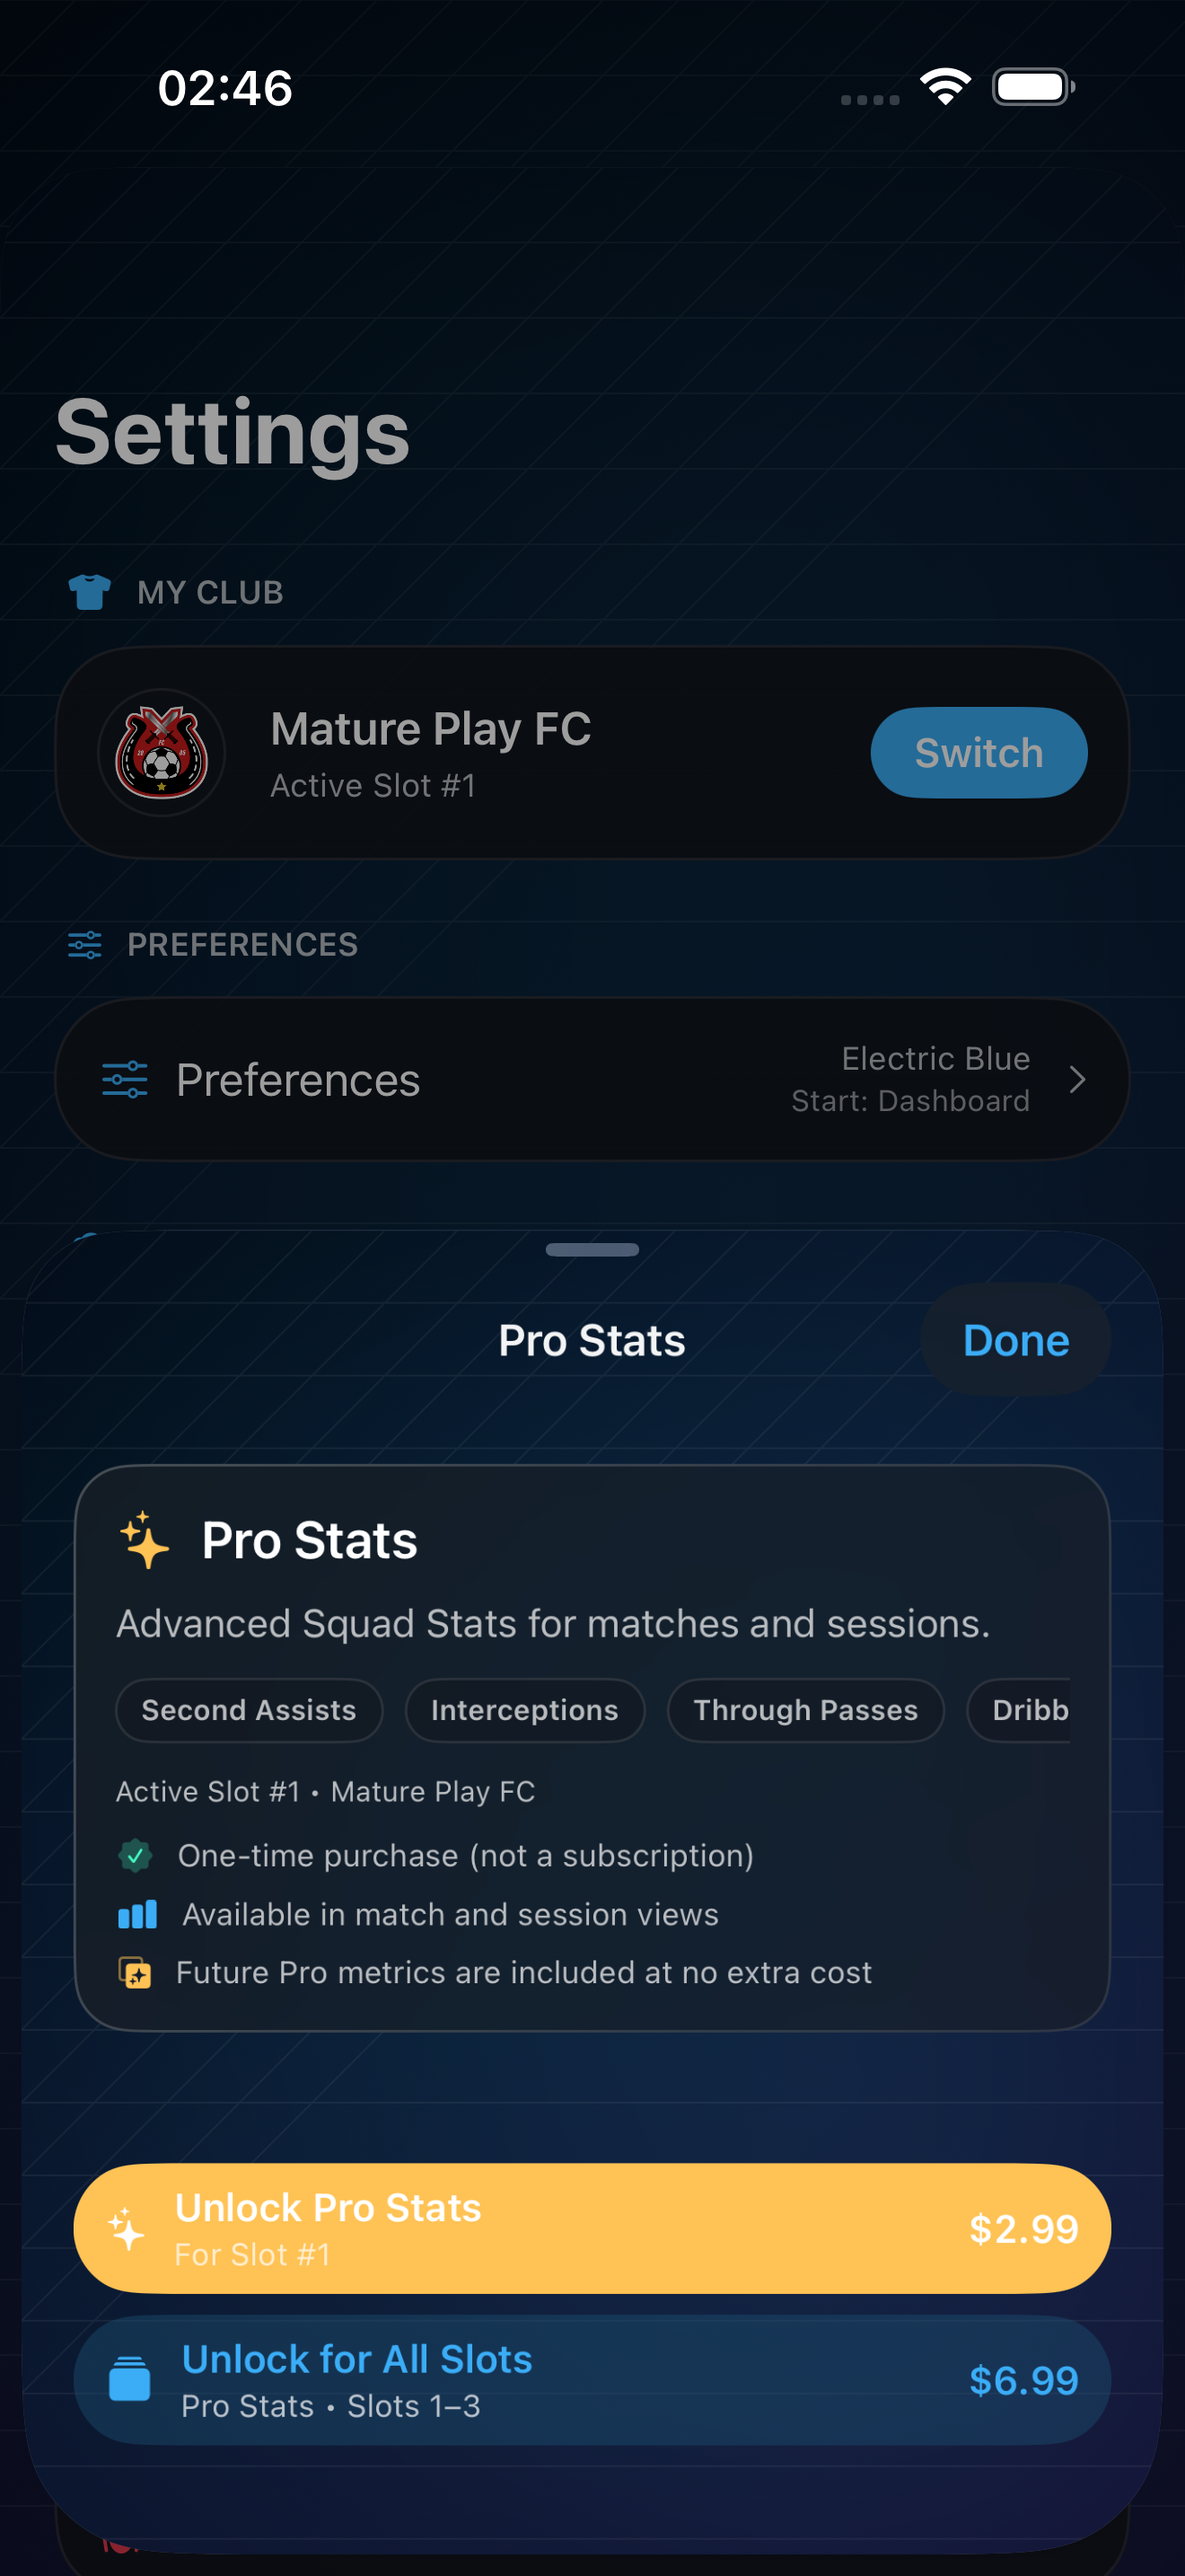
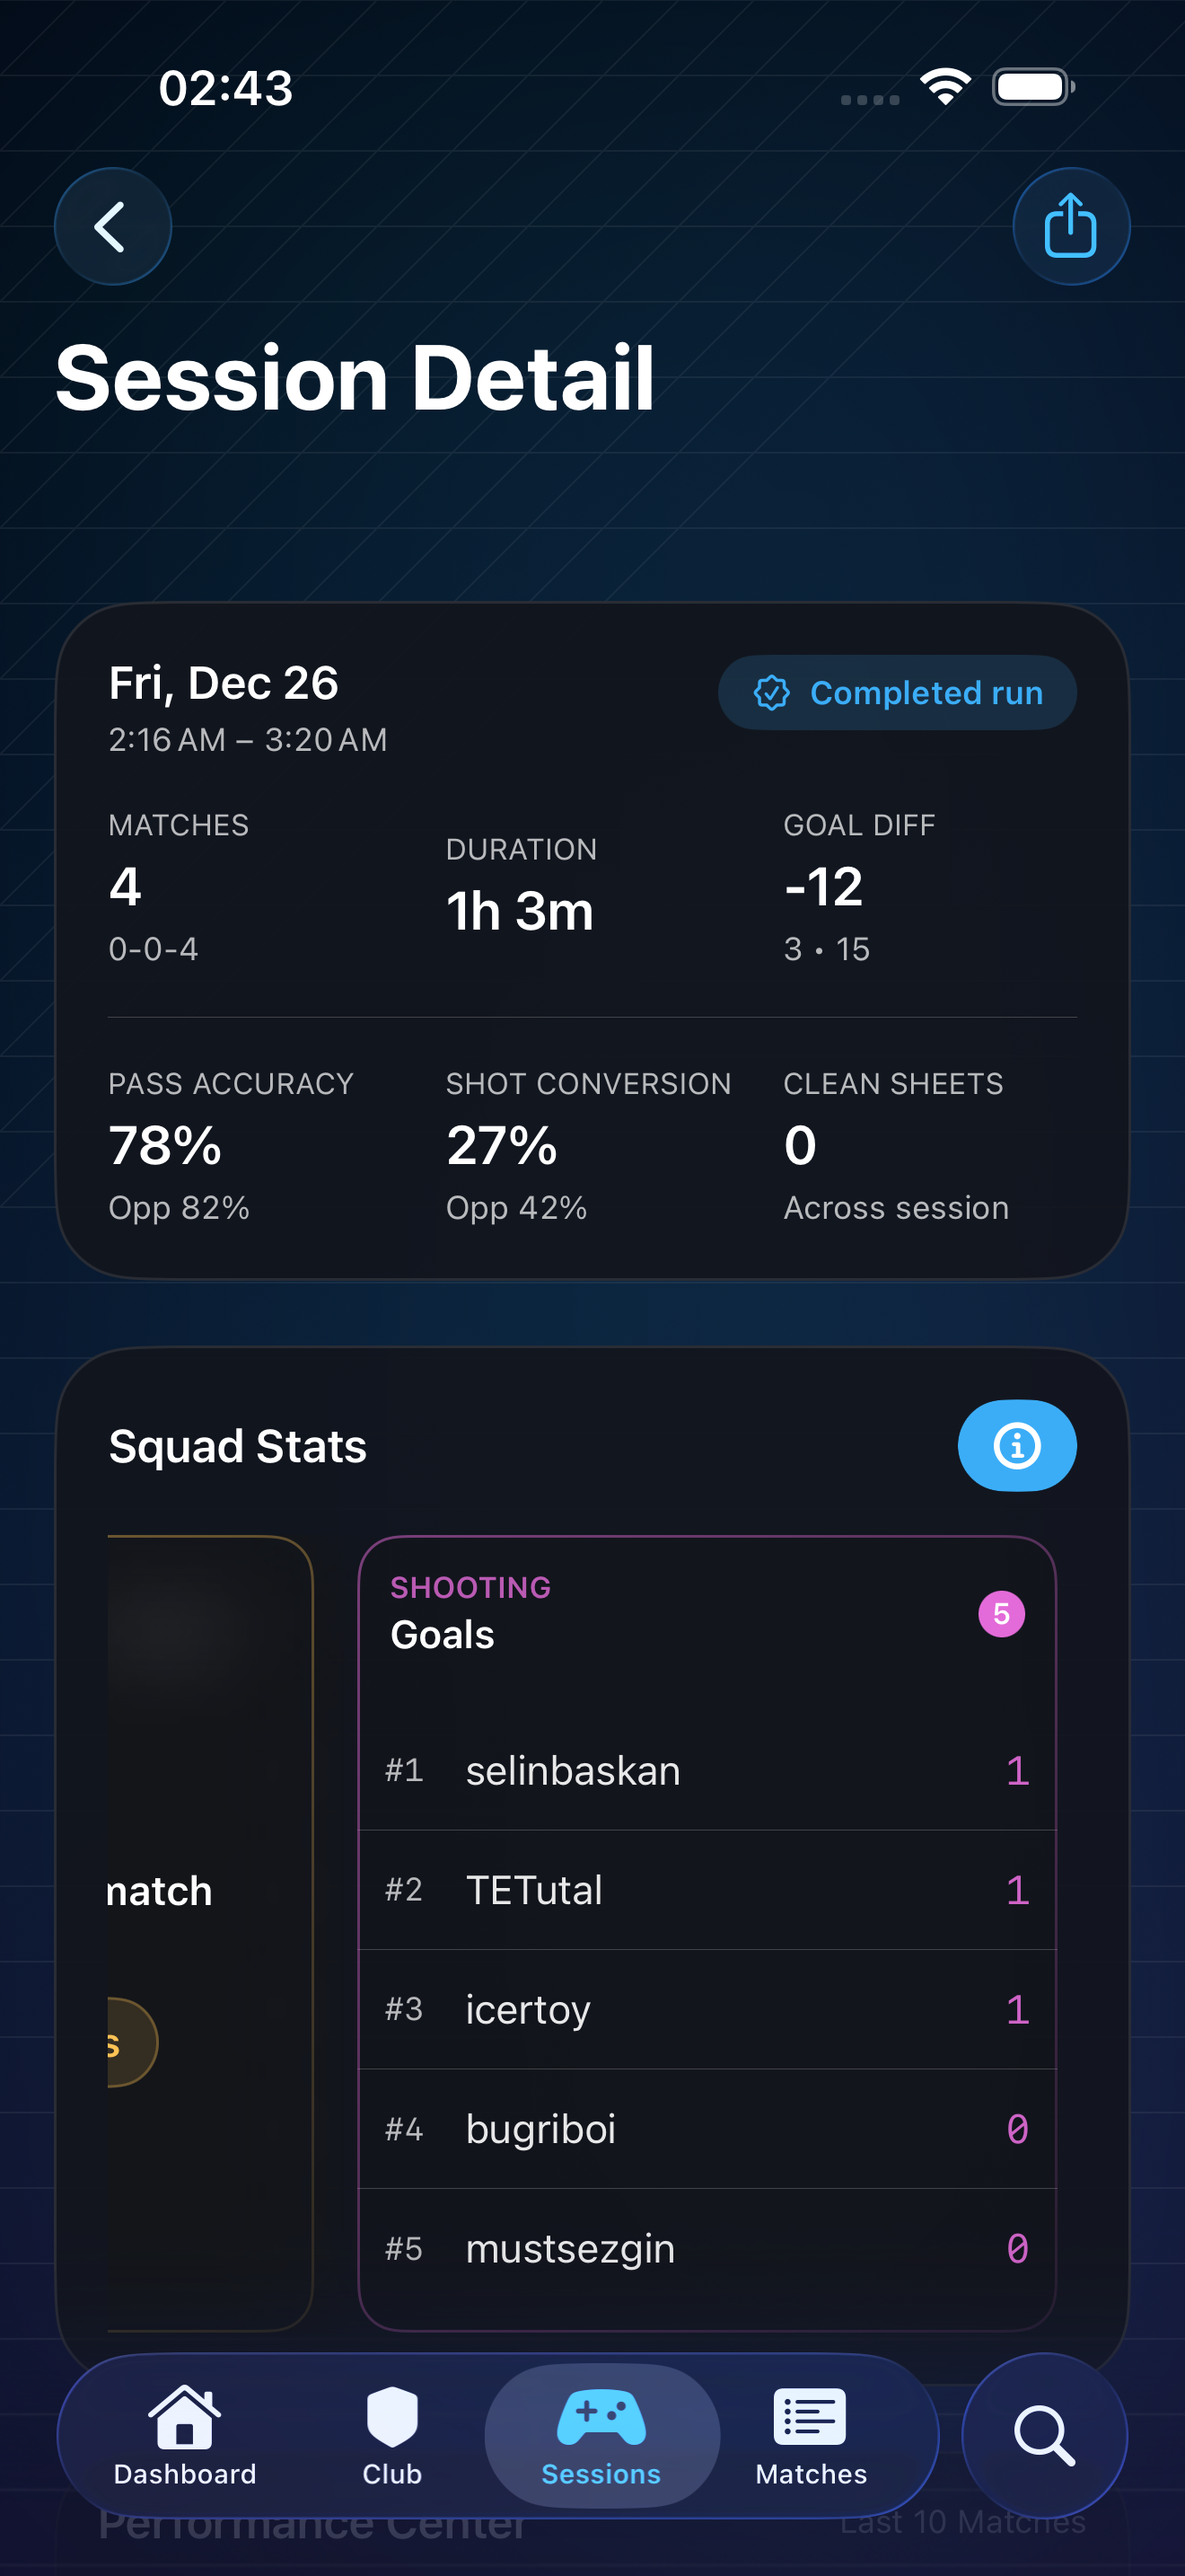
Use real App Store review quotes

diff --git a/index.html b/index.html
@@ -89,20 +89,20 @@
           <h2 class="section-title">Loved by Clubs</h2>
           <div class="testimonials-grid">
             <figure class="testimonial-card">
-              <blockquote>“A must-have for anyone playing Clubs mode.”</blockquote>
-              <figcaption>App Store review</figcaption>
+              <blockquote>“Each regular clubs team should use it. Great UI with easily readable stats..”</blockquote>
+              <figcaption>App Store review (Germany)</figcaption>
             </figure>
             <figure class="testimonial-card">
-              <blockquote>“Each regular clubs team should use it. Great UI…”</blockquote>
-              <figcaption>App Store review</figcaption>
+              <blockquote>“We started using it with mates. It’s well-structured and easy-to-use”</blockquote>
+              <figcaption>App Store review (Germany)</figcaption>
             </figure>
             <figure class="testimonial-card">
-              <blockquote>“Simple and useful application with good UI.”</blockquote>
-              <figcaption>App Store review</figcaption>
+              <blockquote>“The best ProClubs app on the web for your team and stats 🔥🔥🔥”</blockquote>
+              <figcaption>App Store review (Norway)</figcaption>
             </figure>
             <figure class="testimonial-card">
-              <blockquote>“The best ProClubs app on the web for your team and stats.”</blockquote>
-              <figcaption>App Store review</figcaption>
+              <blockquote>“Very clean structure and lots of beneficial statistics for Pro Clubs.”</blockquote>
+              <figcaption>App Store review (Turkey)</figcaption>
             </figure>
           </div>
         </div>

diff --git a/docs/REVIEWS_V1_1_0_SELECTED.md b/docs/REVIEWS_V1_1_0_SELECTED.md
@@ -1,0 +1,54 @@
+# v1.1.0 — Selected App Store Reviews (traceability)
+
+This document is a traceability log for the short review quotes used on `fcclubs.app`.
+
+Website policy:
+- Show **storefront attribution only** (e.g. “App Store review (Germany)”) — **no usernames**.
+- If a review is long, the website may use a short excerpt.
+
+Sources:
+- Germany: `https://apps.apple.com/de/app/fc-clubs-check-team-stats/id6756238638?see-all=reviews&platform=iphone`
+- Turkey: `https://apps.apple.com/tr/app/fc-clubs-check-team-stats/id6756238638?see-all=reviews&platform=iphone`
+- Norway: `https://apps.apple.com/no/app/fc-clubs-check-team-stats/id6756238638?see-all=reviews&platform=iphone`
+
+## Germany (DE)
+
+### “Simple and useful” — 5★
+- Storefront: Germany
+- Username: `BottomOfTheMan`
+- Date: 2025-12-13
+- Text:
+  > Each regular clubs team should use it. Great UI with easily readable stats..
+
+### “Great!” — 5★
+- Storefront: Germany
+- Username: `ertoy132`
+- Date: 2026-01-28
+- Text:
+  > We started using it with mates. It’s well-structured and easy-to-use
+
+## Norway (NO)
+
+### “Best Proclubs app” — 5★
+- Storefront: Norway
+- Username: `VPG Balkan`
+- Date: 2026-01-31
+- Text:
+  > The best ProClubs app on the web for your team and stats 🔥🔥🔥
+
+## Turkey (TR)
+
+### “Every Clubs player needs this” — 5★
+- Storefront: Turkey
+- Username: `mustsezgin`
+- Date: 2025-12-18
+- Text:
+  > A must-have for anyone playing Clubs mode! It makes the game way more fun, and you can really tell a lot of thought went into the details. Thanks!
+
+### “Fantastic!” — 5★
+- Storefront: Turkey
+- Username: `hayraaaaa`
+- Date: 2025-12-14
+- Text:
+  > Very clean structure and lots of beneficial statistics for Pro Clubs. Well considered for teams that they like to take Pro Clubs experience to professional level.
+
